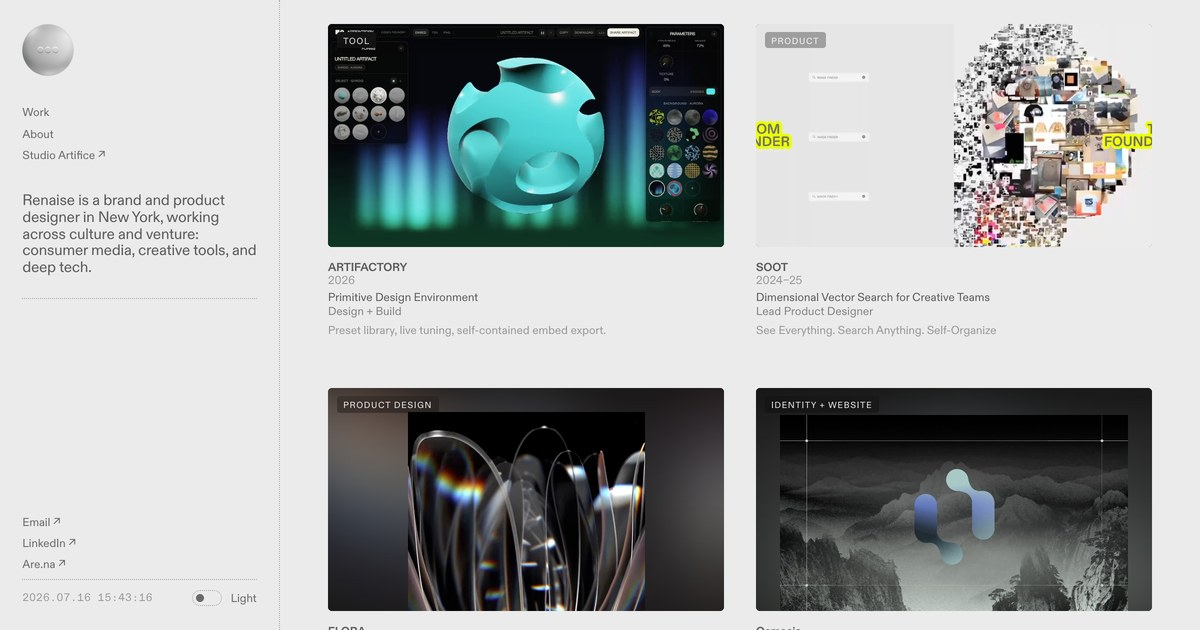
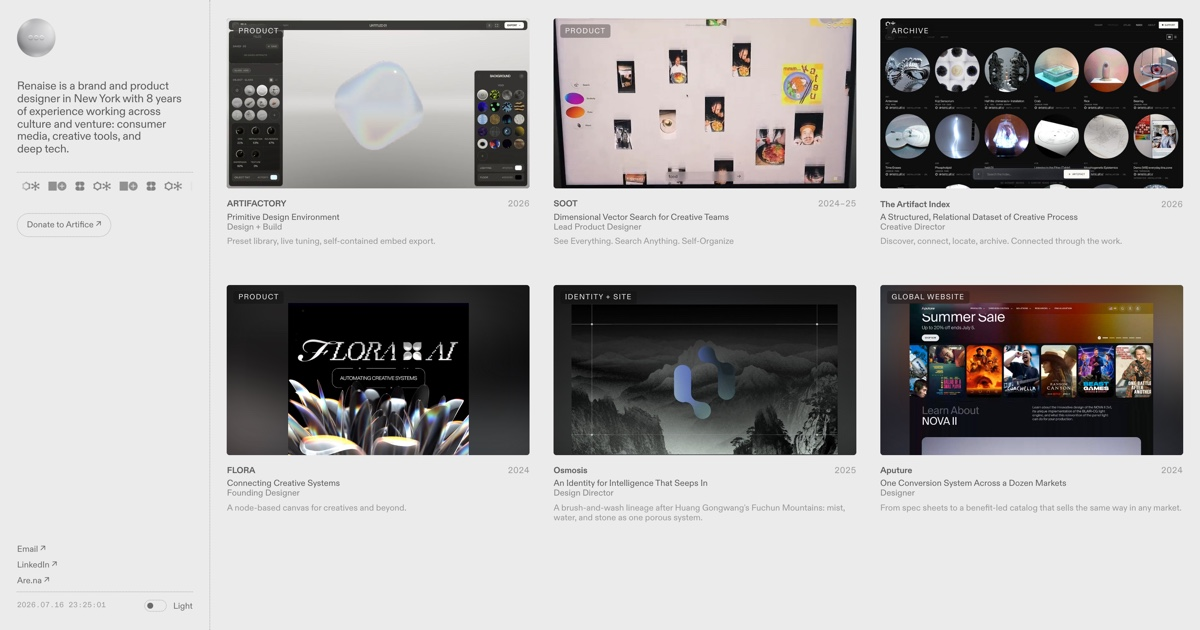
Three-up grid, ledger rows, pronoun caption; drop the rail nav
Rail nav is gone. Work/About were anchors to a two-section page you can
already see, and the outbound route to the studio survives in the marquee.

Cards go three across. The main column drops its 1040px cap and centring
auto-margins and takes the rail's own 1.4rem gutter, so the spread and the
rail sit on one margin (measured 22px on both). New 1240px breakpoint steps
down to two before the plates get too small to read.

Name and year now share one line, year flush right — the ledger row the CV
already used. Tabular figures keep the years in a column; Diatype's defaults
are proportional.

Wordmark gains a She/Her caption on its baseline. h1 is a clamp() from 3.6 to
11rem, so a hand-set offset would drift; the baseline tracks it for free.

OG image recaptured from the live build (it predated the marquee, donate,
Artifact Index, and charcoal dark mode). Shot at 1600x840 and downscaled so
the thumbnail shows the three-up grid, not the two-up a 1200px viewport gets.
Meta descriptions now match the statement on the page ("8 years").

diff --git a/index.html b/index.html
@@ -11,17 +11,17 @@
 <link rel="icon" type="image/png" sizes="16x16" href="/assets/icon-dark-16.png" media="(prefers-color-scheme:dark)" />
 <link rel="apple-touch-icon" href="/assets/apple-touch-icon.png" />
 <meta name="theme-color" content="#ebebeb" />
-<meta name="description" content="Renaise is a brand + product designer in NYC, working across culture + venture: consumer media, creative tools, and deep tech." />
+<meta name="description" content="Brand + product designer in New York with 8 years across culture + venture: consumer media, creative tools, deep tech." />
 <meta property="og:type" content="website" />
 <meta property="og:url" content="https://renaise.com/" />
 <meta property="og:title" content="Renaise CV" />
-<meta property="og:description" content="Brand + product designer across culture + venture. NYC." />
+<meta property="og:description" content="Brand + product designer in New York with 8 years across culture + venture: consumer media, creative tools, deep tech." />
 <meta property="og:image" content="https://renaise.com/assets/og.jpg" />
 <meta property="og:image:width" content="1200" />
 <meta property="og:image:height" content="630" />
 <meta name="twitter:card" content="summary_large_image" />
 <meta name="twitter:title" content="Renaise CV" />
-<meta name="twitter:description" content="Brand + product designer across culture + venture. NYC." />
+<meta name="twitter:description" content="Brand + product designer in New York with 8 years across culture + venture: consumer media, creative tools, deep tech." />
 <meta name="twitter:image" content="https://renaise.com/assets/og.jpg" />
 <style>
   /* One face for everything: Diatype (Dinamo). Redaction is the wordmark alone. */
@@ -73,8 +73,8 @@
   a:hover{color:var(--accent);}
 
   .brand sup{font-size:.6em;top:-.5em;}
-  /* work index: two across. The gap carries the rhythm, so .proj drops its own margin. */
-  .layout{width:100%;display:grid;grid-template-columns:repeat(2,1fr);gap:3.2rem 2rem;align-items:start;}
+  /* work index: three across. The gap carries the rhythm, so .proj drops its own margin. */
+  .layout{width:100%;display:grid;grid-template-columns:repeat(3,1fr);gap:3.2rem 2rem;align-items:start;}
 
   /* statement, now in the rail */
   .statement{padding:0;}
@@ -94,6 +94,12 @@
     width:max-content;max-width:none;}
   h1 a{color:inherit;}
   h1 a:hover{color:var(--accent);}
+  /* Wordmark + pronoun. Shares the wordmark's baseline: h1 is a clamp() from 3.6rem to
+     11rem, so any hand-set offset would drift across that range. The baseline tracks it
+     for free and sits the caption on the same line the display face stands on. */
+  .wm{display:flex;align-items:baseline;gap:.7rem;}
+  .wm .pn{font-family:var(--sans);font-size:.62rem;letter-spacing:.1em;
+    text-transform:uppercase;color:var(--sw3);white-space:nowrap;}
 
   /* project entries */
   .proj{display:block;margin-bottom:0;color:inherit;}
@@ -130,7 +136,12 @@
   /* full-bleed exception: native 16:9 compositions fill the plate */
   .media .cover.fill{object-fit:cover;object-position:center;padding:0;}
   .cols{display:grid;grid-template-columns:1fr;gap:.25rem;align-items:start;}
-  .c0{color:var(--sw4);} .c0 b{font-weight:700;color:var(--ink);}
+  /* Name and year share one line, year flushed right to the plate edge — the same ledger
+     row the CV uses. Baseline-aligned so the bold name and the year sit on one line. */
+  .c0{display:flex;justify-content:space-between;align-items:baseline;gap:1rem;color:var(--sw4);}
+  .c0 b{font-weight:700;color:var(--ink);}
+  /* Diatype's figures are proportional; tabular keeps the right-flushed years in a column. */
+  .c0 .yr{font-variant-numeric:tabular-nums;letter-spacing:.03em;white-space:nowrap;}
   .c1 .t{color:var(--ink);font-weight:400;} .c1 .m{color:var(--sw3);}
   /* block in its own right: it no longer follows a <br>, which used to add a
      phantom empty line on top of this margin. */
@@ -150,12 +161,11 @@
   .side .brand .mk-d{display:none;}
   :root[data-theme="dark"] .side .brand .mk-l{display:none;}
   :root[data-theme="dark"] .side .brand .mk-d{display:block;}
-  /* nav and the bottom links are one treatment: plain mono, no rules, same rhythm */
-  .toc,.acts{display:flex;flex-direction:column;gap:.5rem;}
-  .acts{margin-top:auto;}
-  .toc a,.acts a{font-family:var(--sans);font-size:.72rem;color:var(--sw2);
+  /* The rail's only links. No rules, no underline — colour is the whole affordance. */
+  .acts{display:flex;flex-direction:column;gap:.5rem;margin-top:auto;}
+  .acts a{font-family:var(--sans);font-size:.72rem;color:var(--sw2);
     text-decoration:none;transition:color .2s;}
-  .toc a:hover,.acts a:hover{color:var(--ink);}
+  .acts a:hover{color:var(--ink);}
   /* Theme switch. Built from a dotted track so it speaks the same language as every other
      rule on the page — a filled pill would be the only solid shape here. */
   /* Hidden without JS: the head script is what resolves data-theme, and a switch that
@@ -177,8 +187,11 @@
     padding-top:.6rem;border-top:1px dotted var(--line);}
   .side .clock{position:static;font-family:var(--sans);font-size:.62rem;color:var(--sw4);
     letter-spacing:.03em;font-variant-numeric:tabular-nums;}
-  .wrap{flex:1;min-width:0;max-width:1040px;margin:0 auto;
-    padding:0 clamp(20px,4vw,64px) 5rem;display:flex;flex-direction:column;}
+  /* Side buffer matches the rail's own 1.4rem gutter exactly, so the card spread and the
+     rail contents sit on the same margin. No max-width or auto margins: a centred cap
+     would put an arbitrary gap on the right that the rail doesn't have. */
+  .wrap{flex:1;min-width:0;max-width:none;margin:0;
+    padding:0 1.4rem 5rem;display:flex;flex-direction:column;}
   .card{border-top:1px dotted var(--line);padding:clamp(52px,8vw,104px) 0;}
   .card:first-child{border-top:0;padding-top:1.5rem;}  /* level with the mark in the rail */
   .about{margin-top:0;}
@@ -223,6 +236,9 @@
   .cv .row .ctx{color:var(--sw3);font-family:var(--sans);font-size:.72rem;white-space:nowrap;letter-spacing:.03em;}
   .cv .sub{font-family:var(--sans);font-size:.62rem;letter-spacing:.1em;text-transform:uppercase;color:var(--sw4);padding:.9rem 0 .3rem;}
   .cv .row.prior .nm{color:var(--sw3);}
+  /* The rail eats a fixed 280px, so three columns run out of room long before the phone
+     breakpoint. Step down to two while the plates can still read. */
+  @media(max-width:1240px){ .layout{grid-template-columns:repeat(2,1fr);} }
   @media(max-width:900px){ .cv .sec{grid-template-columns:1fr;gap:.7rem;} h1{font-size:2.4rem;}
     /* one across on narrow — two 16/9 plates side by side would be postage stamps */
     .layout{max-width:100%;grid-template-columns:1fr;gap:2.6rem;}
@@ -230,7 +246,6 @@
     .app{flex-direction:column;}
     .side{position:static;width:100%;height:auto;border-right:0;
       border-bottom:1px dotted var(--line);padding:1.1rem;gap:1.1rem;}
-    .toc{flex-direction:row;flex-wrap:wrap;gap:1rem;}
     .acts{margin-top:0;flex-direction:row;flex-wrap:wrap;gap:1rem;align-items:center;}
     .wrap{padding:0 1.1rem 3rem;}
     .statement h2{font-size:1.1rem;max-width:34ch;} }
@@ -257,11 +272,6 @@ document.documentElement.className+=' js';
   <div class="app">
     <aside class="side">
       <a class="brand" href="#top"><img class="mk-l" src="/assets/icon-192.png" alt="Renaise" width="52" height="52" /><img class="mk-d" src="/assets/icon-dark-192.png" alt="Renaise" width="52" height="52" /></a>
-      <nav class="toc">
-        <a href="#work">Work</a>
-        <a href="#about">About</a>
-        <a href="https://studioartifice.com/work/" target="_blank" rel="noopener">Studio Artifice ↗</a>
-      </nav>
       <section class="statement">
         <h2>Renaise is a brand and product designer in New York with 8 years of experience working across culture and venture: consumer media, creative tools, and deep tech.</h2>
       </section>
@@ -280,35 +290,35 @@ document.documentElement.className+=' js';
       <div class="layout">
       <a class="proj" data-slug="artifactory" href="https://artifactory.pages.dev" target="_blank" rel="noopener">
         <div class="media"><video class="bg" src="/stage/artifactory/cover.mp4" autoplay muted loop playsinline preload="metadata"></video><video class="cover fill" data-smooth src="/stage/artifactory/cover.mp4" autoplay muted loop playsinline preload="auto" poster="/stage/artifactory/cover.jpg"></video><span class="tag">Product</span></div>
-        <div class="cols"><div class="c0"><b>ARTIFACTORY</b><br>2026</div><div class="c1"><span class="t">Primitive Design Environment</span><br><span class="m">Design + Build</span><span class="d">Preset library, live tuning, self-contained embed export.</span></div></div>
+        <div class="cols"><div class="c0"><b>ARTIFACTORY</b><span class="yr">2026</span></div><div class="c1"><span class="t">Primitive Design Environment</span><br><span class="m">Design + Build</span><span class="d">Preset library, live tuning, self-contained embed export.</span></div></div>
       </a>
       <a class="proj" data-slug="soot" href="https://studioartifice.com/work/soot/" target="_blank" rel="noopener">
         <div class="media"><video class="bg" src="/stage/soot/cover.mp4" autoplay muted loop playsinline preload="metadata"></video><video class="cover fill" data-smooth src="/stage/soot/cover.mp4" autoplay muted loop playsinline preload="auto" poster="/stage/soot/cover.jpg"></video><span class="tag">Product</span></div>
-        <div class="cols"><div class="c0"><b>SOOT</b><br>2024–25</div><div class="c1"><span class="t">Dimensional Vector Search for Creative Teams</span><br><span class="m">Lead Product Designer</span><span class="d">See Everything. Search Anything. Self-Organize</span></div></div>
+        <div class="cols"><div class="c0"><b>SOOT</b><span class="yr">2024–25</span></div><div class="c1"><span class="t">Dimensional Vector Search for Creative Teams</span><br><span class="m">Lead Product Designer</span><span class="d">See Everything. Search Anything. Self-Organize</span></div></div>
       </a>
       <a class="proj" data-slug="the-artifact-index" href="https://index.artificenyc.org" target="_blank" rel="noopener">
         <div class="media"><img class="bg" src="/stage/the-artifact-index/cover.jpg" alt="" aria-hidden="true"><img class="cover fill" src="/stage/the-artifact-index/cover.jpg" alt="The Artifact Index"><span class="tag">Archive</span></div>
-        <div class="cols"><div class="c0"><b>The Artifact Index</b><br>2026</div><div class="c1"><span class="t">A Structured, Relational Dataset of Creative Process</span><br><span class="m">Creative Director</span><span class="d">Discover, connect, locate, archive. Connected through the work.</span></div></div>
+        <div class="cols"><div class="c0"><b>The Artifact Index</b><span class="yr">2026</span></div><div class="c1"><span class="t">A Structured, Relational Dataset of Creative Process</span><br><span class="m">Creative Director</span><span class="d">Discover, connect, locate, archive. Connected through the work.</span></div></div>
       </a>
       <a class="proj" data-slug="flora" href="https://studioartifice.com/work/flora/" target="_blank" rel="noopener">
         <div class="media"><video class="bg" src="https://studioartifice.com/stage/flora/cover.mp4" autoplay muted loop playsinline preload="metadata"></video><video class="cover" src="https://studioartifice.com/stage/flora/cover.mp4" autoplay muted loop playsinline preload="metadata" poster="https://studioartifice.com/stage/flora/cover.png"></video><span class="tag">Product</span></div>
-        <div class="cols"><div class="c0"><b>FLORA</b><br>2024</div><div class="c1"><span class="t">Connecting Creative Systems</span><br><span class="m">Founding Designer</span><span class="d">A node-based canvas for creatives and beyond.</span></div></div>
+        <div class="cols"><div class="c0"><b>FLORA</b><span class="yr">2024</span></div><div class="c1"><span class="t">Connecting Creative Systems</span><br><span class="m">Founding Designer</span><span class="d">A node-based canvas for creatives and beyond.</span></div></div>
       </a>
       <a class="proj" data-slug="osmosis" href="https://studioartifice.com/work/osmosis/" target="_blank" rel="noopener">
         <div class="media"><video class="bg" src="https://studioartifice.com/stage/osmosis/cover.mp4" autoplay muted loop playsinline preload="metadata"></video><video class="cover" src="https://studioartifice.com/stage/osmosis/cover.mp4" autoplay muted loop playsinline preload="metadata" poster="https://studioartifice.com/stage/osmosis/cover.png"></video><span class="tag">Identity + Site</span></div>
-        <div class="cols"><div class="c0"><b>Osmosis</b><br>2025</div><div class="c1"><span class="t">An Identity for Intelligence That Seeps In</span><br><span class="m">Design Director</span><span class="d">A brush-and-wash lineage after Huang Gongwang's Fuchun Mountains: mist, water, and stone as one porous system.</span></div></div>
+        <div class="cols"><div class="c0"><b>Osmosis</b><span class="yr">2025</span></div><div class="c1"><span class="t">An Identity for Intelligence That Seeps In</span><br><span class="m">Design Director</span><span class="d">A brush-and-wash lineage after Huang Gongwang's Fuchun Mountains: mist, water, and stone as one porous system.</span></div></div>
       </a>
       <a class="proj" data-slug="industrial-lighting" href="https://studioartifice.com/work/industrial-lighting/" target="_blank" rel="noopener">
         <div class="media"><video class="bg" src="https://studioartifice.com/stage/industrial-lighting/cover.mp4" autoplay muted loop playsinline preload="metadata"></video><video class="cover" src="https://studioartifice.com/stage/industrial-lighting/cover.mp4" autoplay muted loop playsinline preload="metadata" poster="https://studioartifice.com/stage/industrial-lighting/cover.png"></video><span class="tag">Global Website</span></div>
-        <div class="cols"><div class="c0"><b>Aputure</b><br>2024</div><div class="c1"><span class="t">One Conversion System Across a Dozen Markets</span><br><span class="m">Designer</span><span class="d">From spec sheets to a benefit-led catalog that sells the same way in any market.</span></div></div>
+        <div class="cols"><div class="c0"><b>Aputure</b><span class="yr">2024</span></div><div class="c1"><span class="t">One Conversion System Across a Dozen Markets</span><br><span class="m">Designer</span><span class="d">From spec sheets to a benefit-led catalog that sells the same way in any market.</span></div></div>
       </a>
       <a class="proj" data-slug="lighthouse" href="https://studioartifice.com/work/lighthouse/" target="_blank" rel="noopener">
         <div class="media"><video class="bg" src="https://studioartifice.com/stage/lighthouse/cover.mp4" autoplay muted loop playsinline preload="metadata"></video><video class="cover" data-smooth src="https://studioartifice.com/stage/lighthouse/cover.mp4" autoplay muted loop playsinline preload="auto" poster="https://studioartifice.com/stage/lighthouse/cover.png"></video><span class="tag">Brand + Website</span></div>
-        <div class="cols"><div class="c0"><b>Lighthouse</b><br>2026</div><div class="c1"><span class="t">Enterprise Identity Built to Be Bought</span><br><span class="m">Lead Designer</span><span class="d">Immigration repositioned from paperwork relief to recruiting advantage, designed for the enterprise buyer.</span></div></div>
+        <div class="cols"><div class="c0"><b>Lighthouse</b><span class="yr">2026</span></div><div class="c1"><span class="t">Enterprise Identity Built to Be Bought</span><br><span class="m">Lead Designer</span><span class="d">Immigration repositioned from paperwork relief to recruiting advantage, designed for the enterprise buyer.</span></div></div>
       </a>
       <a class="proj" data-slug="depictions-of-original-sin" href="https://studioartifice.com/work/depictions-of-original-sin/" target="_blank" rel="noopener">
         <div class="media"><img class="bg" src="https://studioartifice.com/stage/depictions-of-original-sin/cover.jpg" alt="" aria-hidden="true"><img class="cover" src="https://studioartifice.com/stage/depictions-of-original-sin/cover.jpg" alt="Google Labs (Veo3)"><span class="tag">Creative Production · In Progress</span></div>
-        <div class="cols"><div class="c0"><b>Google Labs (Veo3)</b><br>2026</div><div class="c1"><span class="t">The Depictions of Original Sin</span><br><span class="m">Creative Direction</span><span class="d">An Artifice × Google Labs immersive projection via AI film festival with 6 select creative directors built on Veo 3.</span></div></div>
+        <div class="cols"><div class="c0"><b>Google Labs (Veo3)</b><span class="yr">2026</span></div><div class="c1"><span class="t">The Depictions of Original Sin</span><br><span class="m">Creative Direction</span><span class="d">An Artifice × Google Labs immersive projection via AI film festival with 6 select creative directors built on Veo 3.</span></div></div>
       </a>
 
       </div>
@@ -316,7 +326,10 @@ document.documentElement.className+=' js';
 
     <section class="card" id="about">
       <div class="about">
-        <h1><a href="https://rencap.pages.dev" target="_blank" rel="noopener">Renaise</a></h1>
+        <div class="wm">
+          <h1><a href="https://rencap.pages.dev" target="_blank" rel="noopener">Renaise</a></h1>
+          <span class="pn">She/Her</span>
+        </div>
         <div class="spacer"></div>
         <div class="cv">
           <div class="sec">